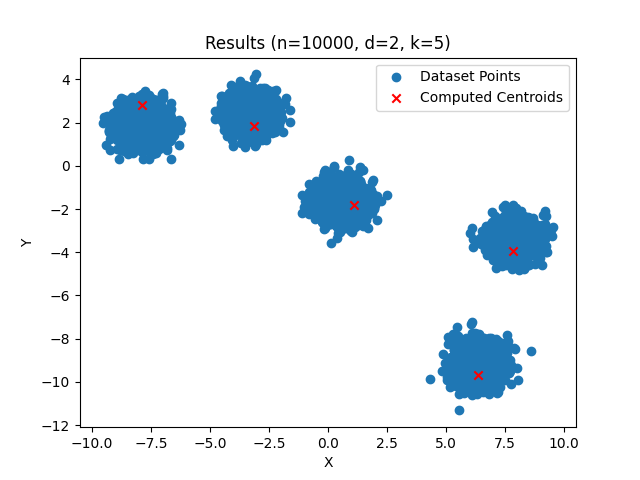
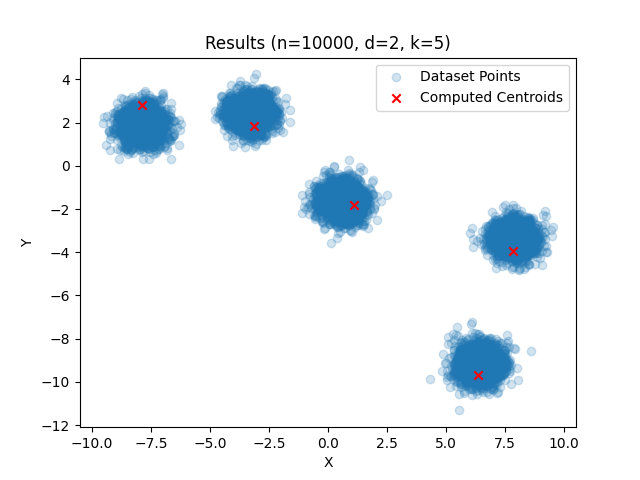
Updated 2d plots

diff --git a/scripts/evaluate_clusters.py b/scripts/evaluate_clusters.py
@@ -6,10 +6,10 @@ import numpy as np
 from sklearn.metrics import silhouette_score, pairwise_distances_argmin_min
 
 # Parameters definition
-n = 100000 # Number of data points
-d = 7      # Number of dimensions
-k = 10      # Number of clusters
-r = 4      # Number of reducers
+n = 1000 # Number of data points
+d = 2      # Number of dimensions
+k = 3      # Number of clusters
+r = 1      # Number of reducers
 
 # Function to read points from a file and return them as a list of tuples
 def read_points_from_file(filename, num_coords, skip_first=False):
@@ -57,7 +57,7 @@ os.makedirs('../plots/results', exist_ok=True)
 if d == 2:
     # Create a scatterplot for the dataset points
     dataset_x, dataset_y = zip(*dataset_points)
-    plt.scatter(dataset_x, dataset_y, label="Dataset Points")
+    plt.scatter(dataset_x, dataset_y, label="Dataset Points", alpha=0.2)
     plt.xlabel("X")
     plt.ylabel("Y")
 
